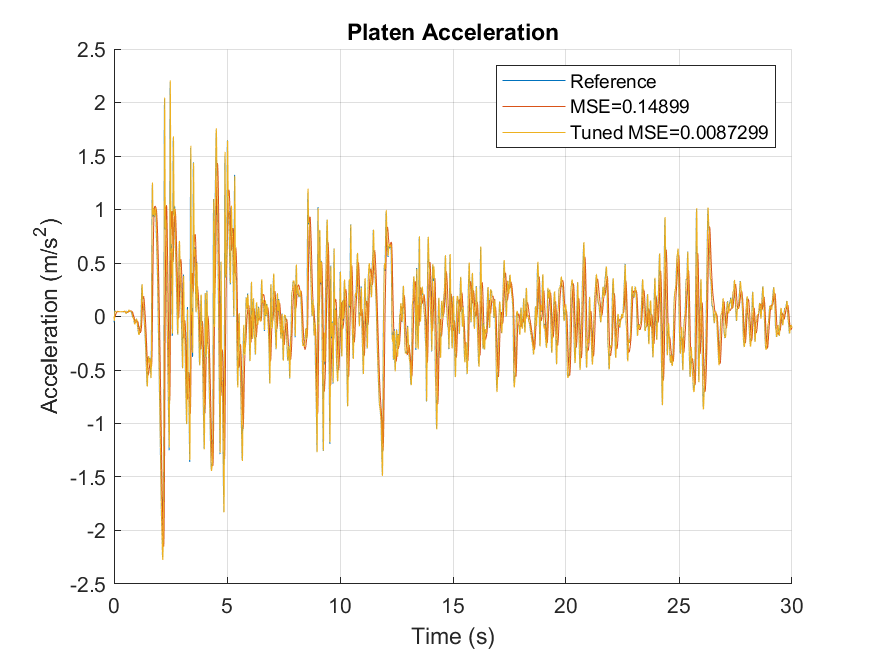
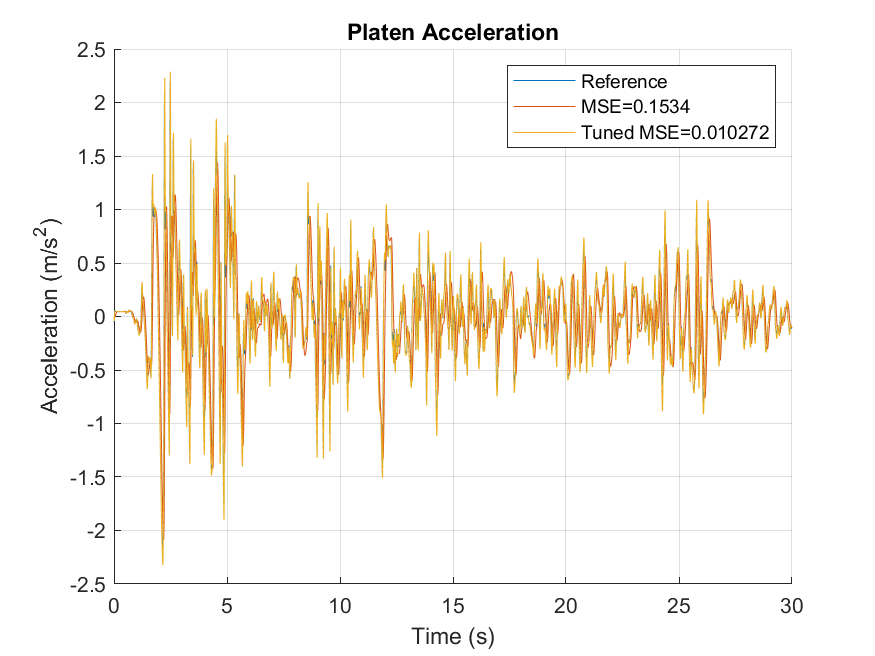
corrected error in simulation_and_plotting which resulted in incorrect i_sv and Fp for the tuned scenario. Also worked on PID_perf_eval

diff --git a/uniaxial_table_model/PID_performance_evaluation.m b/uniaxial_table_model/PID_performance_evaluation.m
@@ -1,42 +1,43 @@
 clear 
-%close all
+close all
 %clc
 
 %% Plots
 
-fig2 = figure(2); %clf;
-ax2 = axes(fig2); hold(ax2, 'on');
-grid on
-hold on
-title('Input to Servo'); 
-legend();
-xlabel('Time (s)'); 
-ylabel('Voltage (V)');
-
-fig7= figure(7); %clf; 
-ax7 = axes(fig7); hold(ax7, 'on');
-grid on
-title('Force to Platen'); 
-legend();
-xlabel('Time (s)'); 
-ylabel('Force (kN)');
+% fig2 = figure(2); %clf;
+% ax2 = axes(fig2); hold(ax2, 'on');
+% grid on
+% hold on
+% title('Input to Servo'); 
+% legend();
+% xlabel('Time (s)'); 
+% ylabel('Voltage (V)');
+% 
+% fig7= figure(7); %clf; 
+% ax7 = axes(fig7); hold(ax7, 'on');
+% grid on
+% title('Force to Platen'); 
+% legend();
+% xlabel('Time (s)'); 
+% ylabel('Force (kN)');
 
 fig8 = figure(8);%
 subplot(121);
 grid on;
 xlabel('Frequency (Hz)');
-ylabel('ddx_m (m/s^2)');
-title('Response Spectra');
+ylabel('Acceleration (m/s^2)');
+title('Acceleration Response Spectra');
+xlim([1 30]);
 subplot(122);
 grid on;
 xlabel('Frequency (Hz)');
-ylabel('x_m (m)');
-title('Response Spectra');
-xlim([0 5]);
-% Define colors for lines 1/3 and 2/4
-color1 = 'r'; % MATLAB default blue
-color2 = 'b'; % MATLAB default orange
-color3 = 'g';
+ylabel('Displacement (m)');
+title('Displacement Response Spectra');
+xlim([.1 5]);
+% % Define colors for lines 1/3 and 2/4
+% color1 = 'r'; % MATLAB default blue
+% color2 = 'b'; % MATLAB default orange
+% color3 = 'g';
 
 %%  Load seismic signal and scale down if necessary
 dados = load('elcentro.txt');
@@ -68,47 +69,33 @@ max_xref
 v_ref =  lsim(1/s,  ddx_ref , t_vector ,'foh');
 max_vref = max(v_ref)
 
-% Finding Response Spectre of Ground
-
+%% Finding Response Spectre of Ground
 f_i=0.1; %freq inicial
 f_n=30;  %freq final
-n_points = 1e3;
-f_vector = logspace( log10(f_i) , log10(f_n) , n_points);
+n_points = 200;
+f_vector = linspace( f_i , f_n , n_points); %logspace( log10(f_i) , log10(f_n) , n_points);
+
 [filtered_picos_ddx_ground , filtered_picos_x_ground] = ResponseSpectre_filtered( [t_vector , ddx_ref], f_vector );
-
-figure(fig8);
-subplot(121)
-grid on;
-legend();
-hold on
-semilogx(f_vector, filtered_picos_ddx_ground,'-', 'LineWidth' , 1, 'Color', color1, 'DisplayName', 'Ground');% - Normal
-
-subplot(122)
-grid on;
-legend();
-hold on
-semilogx(f_vector, filtered_picos_x_ground,'-', 'LineWidth' , 1, 'Color', color1, 'DisplayName', 'Ground ');%- Normal
-
 
 %% Structure parameters
 mT=1.9751*1e3;       %Platen mass (mp=1.9751 t)
 cT=5.78*1e3;        %Total damping, actuator + platen (ct=5.78 kN s/m1)
 
-mass=[2.5]*1e3;
+mass=2e3;
 for m_i = mass
     m1 = m_i; % kg
     m2 = m_i; % kg
 
     % 1.5 < f1 < 4
     % 6 < f2 < 10
-    f_list = [ [1.5,6] ]; % Define the list
+    f_list =  [ [1.5,6] ];% ; [4,10] ]; % Define the list
     for i = 1:size(f_list, 1)
         f1 = f_list( i, 1);
         f2 = f_list( i, 2);
         
         % 2 < zeta1 < 10
         % 5 < zeta2 < 25
-        zeta_list = [ [2,5]; [10,25] ]/100; % Define the list
+        zeta_list = [ [0.02,0.05] ];%; [10,25] ]/100; % Define the list
         for j = 1:size(zeta_list, 1)
             zeta1 = zeta_list( j, 1);
             zeta2 = zeta_list( j, 2);
@@ -116,7 +103,7 @@ for m_i = mass
             % Controller
             k_p=1.2993/1e-2; %SI units %Pgain (kp=1.2993 V/cm) 
             G_c = tf(k_p,1);
-            [~,~,~,~,~ ,~ ,~,~,~,~,G_xT_Fp,~,G_xT_xref,~,~ , G_Fp_isv  ,~,~,~,~ , ~ ]=Compute_TFs(G_c, mT , cT , m1 , m2 , f1, zeta1 , f2 , zeta2);
+            [~,~,~,~,~ ,~ ,~,~,~,~,G_xT_Fp,~,~,~,~ , G_Fp_isv  ,~,~,~,~ , ~ ]=Compute_TFs(G_c, mT , cT , m1 , m2 , f1, zeta1 , f2 , zeta2);
             % Use PID tuner app to generate a PID controller for the system
             tuner_opts = pidtuneOptions('DesignFocus','reference-tracking');
             G_c   = pidtune(G_Fp_isv*G_xT_Fp,'PIDF',20*2*pi,tuner_opts)
@@ -127,15 +114,17 @@ for m_i = mass
             x_T = lsim(G_xT_xref*1e3/s^2 ,  ddx_ref ,t_vector,'foh');
             ddx_T = lsim(G_xT_xref, ddx_ref , t_vector ,'foh');
 
-            % Second plot
-            axes(ax2); % Activate the existing axes
+            % % Second plot
+            % axes(ax2); % Activate the existing axes
             i_sv = lsim(G_c,   (x_ref-x_T)*1e-3  , t_vector,'foh'); % 1e-3 converts from mm to meters
-            plot(t_vector,i_sv,"DisplayName","Default")
-
-            % 7th  plot 
-            axes(ax7); % Activate the existing axes
+            max_isv = max(abs(i_sv));
+            % plot(t_vector,i_sv,"DisplayName", sprintf('m=%i , f_1=%.1f , f_2=%.1f  , ξ_1=%.2f ,  ξ_2=%.2f',m_i , f1, f2 , zeta1 , zeta2 ))
+            % 
+            % % 7th  plot 
+            % axes(ax7); % Activate the existing axes
             F_p_isv = lsim(G_Fp_isv,   i_sv  , t_vector,'foh');
-            plot(t_vector,F_p_isv*1e-3,"DisplayName","Default") % 1e-3 to display as kN
+            max_Fp = max(abs(F_p_isv));
+            % plot(t_vector,F_p_isv*1e-3,"DisplayName",sprintf('m=%i , f_1=%.1f , f_2=%.1f  , ξ_1=%.2f ,  ξ_2=%.2f',m_i , f1, f2 , zeta1 , zeta2 )) % 1e-3 to display as kN
 
 
             % Finding Response Spectre for table
@@ -145,20 +134,36 @@ for m_i = mass
             subplot(121)
             hold on
             mse = mean((filtered_picos_ddx_table-filtered_picos_ddx_ground).^2);
-            semilogx(f_vector, filtered_picos_ddx_table,'-', 'LineWidth' , 1, 'Color', color2, 'DisplayName', "Platform - MSE="+string(mse(1))); % - Normal
+            semilogx(f_vector, filtered_picos_ddx_table,'-', 'LineWidth' , 1,  'DisplayName', sprintf(' f_{1}=%.1f , f_{2}=%.1f , ξ_{1}=%.2f  , ξ_{2}=%.2f  , i_{sv}= %.1f , F_{P}=%.0f , MSE=%.1e' , f1, f2 , zeta1 , zeta2 ,max_isv , round(max_Fp*1e-3,3) , mse) ); % - Normal
 
             subplot(122)
             hold on
             mse = mean((filtered_picos_x_table-filtered_picos_x_ground).^2);
-            semilogx(f_vector, filtered_picos_x_table,'-', 'LineWidth' , 1, 'Color', color2, 'DisplayName',"Platform - MSE="+string(mse(1)));
-
+            semilogx(f_vector, filtered_picos_x_table,'-', 'LineWidth' , 1,  'DisplayName', sprintf(' f_{1}=%.1f , f_{2}=%.1f  , ξ_{1}=%.2f ,  ξ_{2}=%.2f , i_{sv}= %.1f , F_{P}=%.0f , MSE=%.1e' , f1, f2 , zeta1 , zeta2 ,max_isv , round(max_Fp*1e-3,3) , mse));
+            % sprintf(' f_1=%.1f , f_2=%.1f  , ξ_1=%.2f ,  ξ_2=%.2f  i_{sv}= %.1f  , F_P=%.1e , MSE=%.1e' , f1, f2 , zeta1 , zeta2 ,max_isv , max_Fp , mse) 
+            % sprintf(' f_1=%.1f , ξ_1=%.2f , i_{sv}= %.1f , MSE=%.1e \n f_2=%.1f , ξ_2=%.2f , F_P=%.1e' , f1,  zeta1 , max_isv ,mse ,f2 ,zeta2 ,max_Fp )
         end
     end
 end
 
+
+%% Plotting response spectre of groung
+figure(fig8);
+subplot(121)
+grid on;
+legend();
+hold on
+semilogx(f_vector, filtered_picos_ddx_ground,'--', 'LineWidth' , 2,'DisplayName', 'Ground');% - Normal
+
+subplot(122)
+grid on;
+legend();
+hold on
+semilogx(f_vector, filtered_picos_x_ground,'--', 'LineWidth' , 2,'DisplayName', 'Ground ');%- Normal
+
 %% Save all figures after plotting
-saveas(fig2, 'Input_to_Servo.png');
-saveas(fig7, 'Force_to_Platen.png');
+% saveas(fig2, 'Input_to_Servo.png');
+% saveas(fig7, 'Force_to_Platen.png');
 saveas(fig8, 'Response_Spectra.png');
 
 
@@ -195,7 +200,7 @@ function [ filtered_picos_ddx_m , filtered_picos_x_m    ] = ResponseSpectre_filt
 
     % Apply a filter to the data
     % % Moving average filter
-    windowSize = length(f_vector)*0.1; % Adjust window size as needed as percentage of elements in f_vector
+    windowSize = length(f_vector)*0.2; % Adjust window size as needed as percentage of elements in f_vector
     filtered_picos_ddx_m = movmean(picos_ddx_m, windowSize);
     filtered_picos_x_m  = movmean(picos_x_m, windowSize);
 

diff --git a/uniaxial_table_model/simulation_and_plotting.m b/uniaxial_table_model/simulation_and_plotting.m
@@ -87,25 +87,24 @@ color3 = 'g';
 mT=1.9751*1e3;       %Platen mass (mp=1.9751 t)
 cT=5.78*1e3;        %Total damping, actuator + platen (ct=5.78 kN s/m1)
 
-mass=1e3;
+mass=2e3;
 
 % 1st mode
 m1 = mass; % kg
-f1 = 2; % Hz   % 1.5 < f1 < 4
-zeta1 = 0.05 ; % 2 < zeta1 < 10
+f1 = 1.5; % Hz   % 1.5 < f1 < 4
+zeta1 = 0.02 ; % 2 < zeta1 < 10
 %2nd mode
 m2 = m1; % kg
-f2 = 10; % Hz % 6 < f2 < 10
-zeta2 = 0.1; % 5 < zeta2 < 25
+f2 = 6; % Hz % 6 < f2 < 10
+zeta2 = 0.05; % 5 < zeta2 < 25
 
 % Controller
 k_p=1.2993/1e-2; %SI units %Pgain (kp=1.2993 V/cm) 
 G_c = tf(k_p,1);
 
-% s,G_T,G_1,G_2,G_T1 ,G_21 ,G_svq,G_csv,G_x2_x1,G_x1_xT,G_xT_Fp,G_Fp_xref,G_xT_xref,G_x1_xref,G_x2_xT , G_Fp_isv  ,c1,c2,k1,k2
+% s,G_T,G_1,G_2,G_T1 ,G_21 ,G_svq,G_csv,G_x2_x1,G_x1_xT,G_xT_Fp,G_Fp_xref,G_xT_xref,G_x1_xref,G_x2_xT , G_Fp_isv  ,c1,c2,k1,k2, ss_model 
 [s,~,~,~,~ ,~ ,~,~,~,~,G_xT_Fp,~,G_xT_xref,~,~ , G_Fp_isv  ,~,~,~,~ , ss_isv_xT  ]=Compute_TFs(G_c, mT , cT , m1 , m2 , f1, zeta1 , f2 , zeta2); %_and_StateSpace
-
-ss_xref_xT = feedback(ss_isv_xT*G_c ,1);
+%ss_xref_xT = feedback(ss_isv_xT*G_c ,1);
 
 %%  Load seismic signal and scale down if necessary
 dados = load('elcentro.txt');
@@ -123,7 +122,7 @@ lim_force = 200e3; % N
 % Scaling down if necessary
 % displacements in milimeters
 x_ref = lsim(1e3/s^2,  ddx_ref , t_vector ,'foh');
-max_xref = max(x_ref)
+max_xref = max(x_ref);
 scale=1;
 while max_xref > lim_displacement
     scale = 0.95*scale;
@@ -142,7 +141,7 @@ f_i=0.1; %freq inicial
 f_n=30;  %freq final
 n_points = 1e2;
 f_vector = logspace( log10(f_i) , log10(f_n) , n_points);
-[filtered_picos_ddx_ground , filtered_picos_x_ground] = ResponseSpectre_filtered( dados(:,1:2), f_vector );
+[filtered_picos_ddx_ground , filtered_picos_x_ground] = ResponseSpectre_filtered( [ t_vector , ddx_ref], f_vector );
 
 figure(fig8);
 subplot(121)
@@ -164,18 +163,19 @@ semilogx(f_vector, filtered_picos_x_ground(:, 1),'-o', 'LineWidth' , 1, 'Color',
 % First plot
 axes(ax1); % Activate the existing axes
 bodeplot(G_xT_xref,opts1);
-hold on
-bodeplot(ss_xref_xT)
+% hold on
+% bodeplot(ss_xref_xT)
 
 % Third plot
 axes(ax3); % Activate the existing axes
-x_T_ss = lsim(ss_xref_xT,x_ref,t_vector);
+
 x_T = lsim(G_xT_xref*1e3/s^2 ,  ddx_ref ,t_vector,'foh');
 erro = x_T-x_ref;
 mse = mean(erro.^2);
 plot(t_vector,x_ref,"DisplayName","Reference")
 plot(t_vector,x_T,"DisplayName","MSE="+string(mse))
-plot(t_vector,x_T_ss,'--',"DisplayName","State Space")
+%x_T_ss = lsim(ss_xref_xT,x_ref,t_vector);
+%plot(t_vector,x_T_ss,'--',"DisplayName","State Space")
 
 %%
 % 5th plot
@@ -208,9 +208,8 @@ plot(t_vector,F_p_isv/1e3,"DisplayName","Default") %/1e3 to display as kN
 
 
 %% Finding Response Spectre for table
-dados_mesa  = [ t_vector , lsim( G_xT_xref, dados(:,2) , t_vector ,'zoh')];%, lsim( G_xT_xref, dados(:,3) , t_vector ,'zoh')] ;
 
-[filtered_picos_ddx_table , filtered_picos_x_table ] = ResponseSpectre_filtered( dados_mesa , f_vector );
+[filtered_picos_ddx_table , filtered_picos_x_table ] = ResponseSpectre_filtered( [ t_vector , ddx_T] , f_vector );
 
 figure(fig8);
 subplot(121)
@@ -230,8 +229,7 @@ semilogx(f_vector, filtered_picos_x_table(:, 1),'-+', 'LineWidth' , 1, 'Color', 
 %% Use PID tuner app to generate a PID controller for the system
 tuner_opts = pidtuneOptions('DesignFocus','reference-tracking');
 G_c   = pidtune(G_Fp_isv*G_xT_Fp,'PIDF',20*2*pi,tuner_opts)
-[s,G_T,G_1,G_2,G_T1 ,G_21 ,G_svq,G_csv,G_x2_x1,G_x1_xT,G_xT_Fp,G_Fp_xref,G_xT_xref,G_x1_xref,G_x2_xT , G_Fp_isv  ,c1,c2,k1,k2 , ss_model ]=Compute_TFs(G_c, mT , cT , m1 , m2 , f1, zeta1 , f2 , zeta2);
-
+[s,~,~,~,~ ,~ ,~,~,~,~,G_xT_Fp,~,G_xT_xref,~,~ , G_Fp_isv  ,~,~,~,~ ,~  ]=Compute_TFs(G_c, mT , cT , m1 , m2 , f1, zeta1 , f2 , zeta2);
 
 %%
 % First plot
@@ -268,22 +266,20 @@ plot(t_vector,erro,"DisplayName","Tuned")
 % Second plot
 axes(ax2); % Activate the existing axes
 hold on
-i_sv = lsim(G_c*1e-3  ,   x_ref-x_T ,t_vector,'foh');
+i_sv = lsim(G_c ,   (x_ref-x_T_tuned)*1e-3  ,t_vector,'foh');
 plot(t_vector,i_sv,"DisplayName","Tuned")
 
 %  plot
 axes(ax7); % Activate the existing axes
 hold on
 F_p_isv = lsim(G_Fp_isv,   i_sv  , t_vector,'foh');
-plot(t_vector,F_p_isv/1e3,"DisplayName","Tuned")
+plot(t_vector,F_p_isv*1e-3,"DisplayName","Tuned")
 
 
 
 %% Finding Response Spectre for table tuned
 
-dados_mesa  = [ t_vector , lsim( G_xT_xref, dados(:,2) , t_vector ,'zoh')]; %, lsim( G_xT_xref, dados(:,3) , t_vector ,'zoh')] ;
-
-[filtered_picos_ddx_table_tuned , filtered_picos_x_table_tuned] = ResponseSpectre_filtered( dados_mesa , f_vector );
+[filtered_picos_ddx_table_tuned , filtered_picos_x_table_tuned ] = ResponseSpectre_filtered( [ t_vector , ddx_T_tuned] , f_vector );
 
 
 figure(fig8);
@@ -298,20 +294,6 @@ hold on
 mse = mean((filtered_picos_x_table_tuned-filtered_picos_x_ground).^2);
 semilogx(f_vector, filtered_picos_x_table_tuned(:, 1),'-*', 'LineWidth' , 1, 'Color', color3, 'DisplayName', 'Tuned Platform - MSE='+string(mse(1)));
 %semilogx(f_vector, filtered_picos_x_table_tuned(:, 2),'-*', 'LineWidth' , 1, 'Color', color2, 'DisplayName', 'Tuned Platform - Parallel');
-
-%% calcular MSE
-
-erro_RS_ddx_table = filtered_picos_ddx_table-filtered_picos_ddx_ground;
-mse_RS_ddx_table = mean(erro_RS_ddx_table.^2);
-
-erro_RS_ddx_table_tuned = filtered_picos_ddx_table_tuned-filtered_picos_ddx_ground;
-mse_RS_ddx_table_tuned = mean(erro_RS_ddx_table_tuned.^2);
-
-erro_RS_x_table = filtered_picos_x_table-filtered_picos_x_ground;
-mse_RS_x_table = mean(erro_RS_x_table.^2);
-
-erro_RS_x_table_tuned = filtered_picos_x_table_tuned-filtered_picos_x_ground;
-mse_RS_x_table_tuned = mean(erro_RS_x_table_tuned.^2);
 
 
 %% State Space model

diff --git a/uniaxial_table_model/Compute_TFs.m b/uniaxial_table_model/Compute_TFs.m
@@ -8,14 +8,14 @@ function [s,G_T,G_1,G_2,G_T1 ,G_21 ,G_svq,G_csv,G_x2_x1,G_x1_xT,G_xT_Fp,G_Fp_xre
 % zeta1 = 0.02 ; 
 
 % % k1 = m1*(2*pi*f1)^2; %N/m
-c1 = zeta1*2*m1*2*pi*f1 %N/m/s
+c1 = zeta1*2*m1*2*pi*f1; %N/m/s
 
 % %2nd mode
 % m2= m1; % kg
 % f2 = 10; % Hz
 % zeta2 = 0.05; %
 
-c2 = zeta2*2*m2*2*pi*f2 %N/m/s
+c2 = zeta2*2*m2*2*pi*f2; %N/m/s
 
 syms k1 k2
 assume(k1 ,"positive")
@@ -26,8 +26,8 @@ Y = vpasolve([
     (m1*k2 + m2*(k1+k2))/(2*m1*m2)+ 0.5*sqrt( ((m1*k2+m2*(k1+k2))/(m1*m2))^2 - 4*( k1*k2 )/(m1*m2) ) == (2*pi*f2)^2,
 ], [k1,k2]);
 
-k1 = double(Y.k1)
-k2 = double(Y.k2)
+k1 = double(Y.k1);
+k2 = double(Y.k2);
 
 
 %Servo-valve parameters
